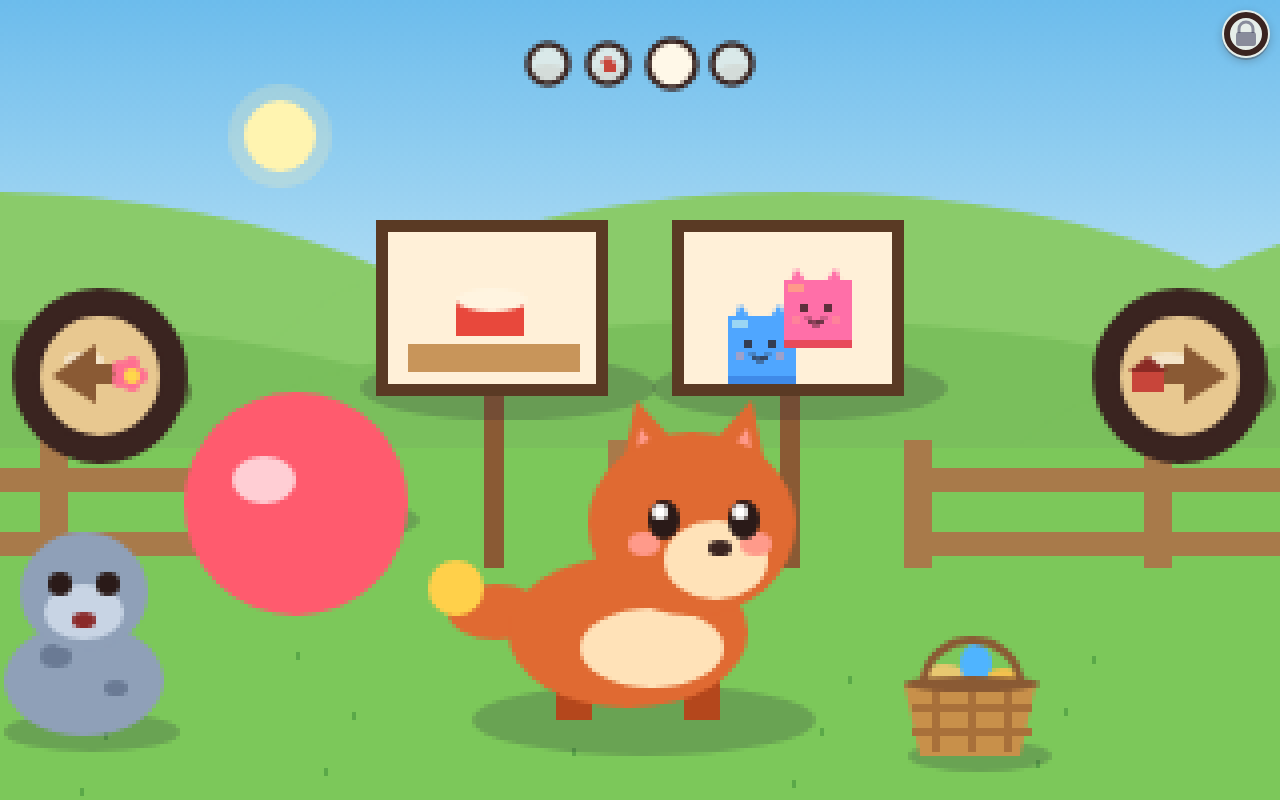
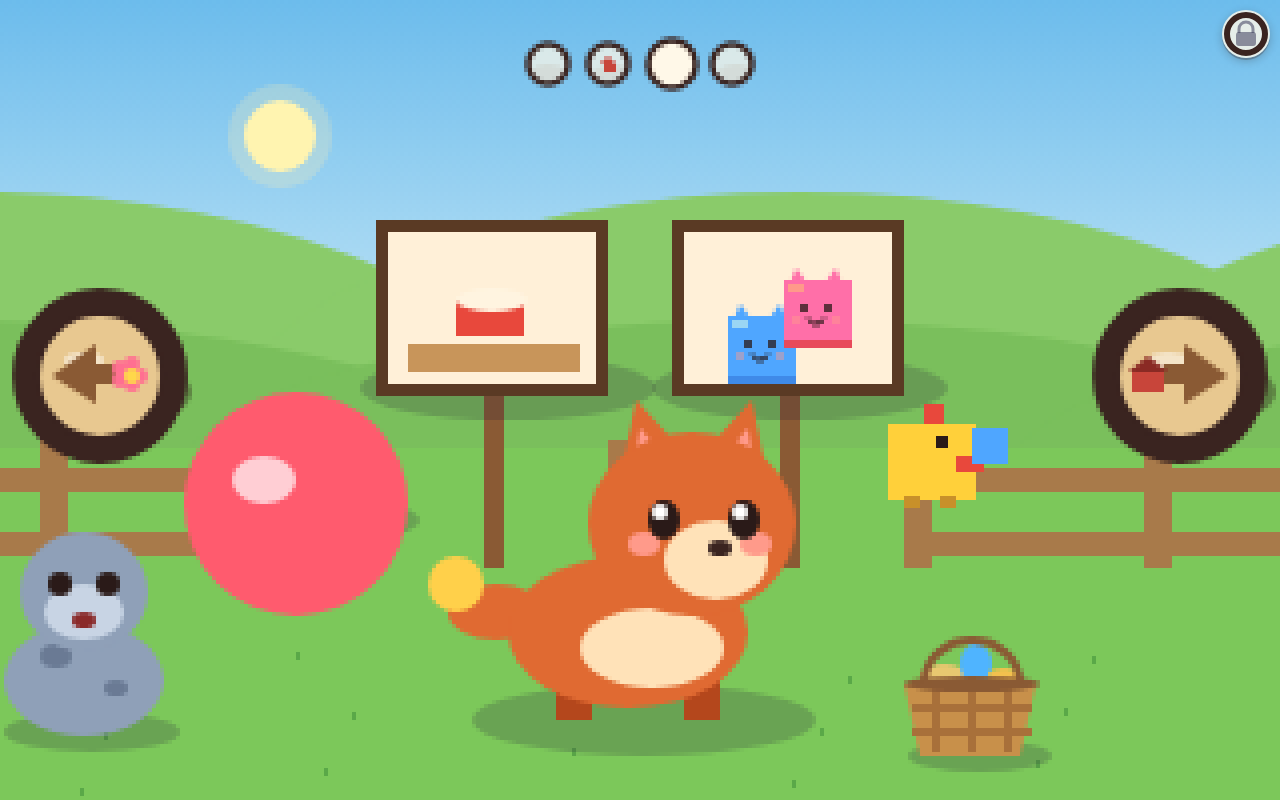
LR-WORLD-4: Give each place an animal that answers a tap.
A bird, a bunny, a chick and a woolly each keep a small prop. A daytime tap hops them. A bedtime tap only stirs them. Arriving plays one hello, and reduced motion skips the bounce. The palette stays at 188 colours.

Changed region(s): [[0.6875, 0.5, 0.8125, 0.6562], [0.3438, 0.75, 0.375, 0.7812], [0.3438, 0.6875, 0.375, 0.7188]]

diff --git a/games/little-ranch/feel.js b/games/little-ranch/feel.js
@@ -1,0 +1,203 @@
+/* Each place keeps one animal and the little thing it plays with. A tap hops them by day and stirs them at bedtime. Arriving is answered with one hello. */
+(function () {
+  if (!window.LR) return;
+  const LIFE = [
+    { area: 0, animal: 'bird', prop: 'berry', day: '#e8483c', night: '#8a2a24', belly: '#fff0d8', propDay: '#c8453a', propNight: '#8a2a24' },
+    { area: 1, animal: 'bunny', prop: 'clover', day: '#f4f0d8', night: '#8a8aa0', belly: '#fff8ec', propDay: '#5cba5a', propNight: '#1e3a36' },
+    { area: 2, animal: 'chick', prop: 'block', day: '#ffd03a', night: '#c8902a', belly: '#fff3a0', propDay: '#4fa6ff', propNight: '#2a3a68' },
+    { area: 3, animal: 'woolly', prop: 'pail', day: '#fff8ec', night: '#b8ab98', belly: '#f4ead8', propDay: '#8a5a34', propNight: '#5a3a24' }
+  ];
+  LIFE.forEach(row => { row.pose = 'rest'; row.at = 0; row.greeted = false; row.spot = null; });
+  const cv = document.querySelector('#ranch');
+  const reduce = () => matchMedia('(prefers-reduced-motion: reduce)').matches;
+  const night = () => LR.state.mode !== 'play' || LR.state.dusk > .55;
+  let seen = -1, pending = false, lastT = 0, held = null;
+
+  function reset() {
+    LIFE.forEach(row => { row.pose = 'rest'; row.at = 0; row.greeted = false; });
+    seen = -1; pending = false;
+  }
+  function watch() {
+    const t = LR.state.t;
+    if (t + .001 < lastT) reset();
+    lastT = t;
+    const area = LR.camera.area;
+    const moving = Math.abs(LR.camera.x - LR.camera.target) > .5;
+    if (seen !== area) { seen = area; pending = true; }
+    if (!pending || moving || LR.state.place !== 'ranch') return;
+    pending = false;
+    const row = LIFE[area];
+    row.greeted = true;
+    if (!reduce() && !night()) { row.pose = 'hello'; row.at = t; }
+  }
+  function lift(row) {
+    if (reduce()) return 0;
+    const t = LR.state.t - row.at, U = LR.layout.U;
+    if (row.pose === 'rest') return night() ? 0 : Math.sin(LR.state.t * 3) * 1.5;
+    const dur = row.pose === 'stir' ? .35 : row.pose === 'hello' ? .6 : .5;
+    if (t >= dur) { row.pose = 'rest'; return lift(row); }
+    const k = t / dur;
+    if (row.pose === 'stir') return Math.sin(k * Math.PI * 3) * U * .015;
+    return Math.sin(k * Math.PI) * U * .1;
+  }
+  function clear(x, y, r) {
+    const pts = [[0, 0], [r * .8, 0], [-r * .8, 0], [0, r * .6], [0, -r * .6]];
+    return pts.every(([dx, dy]) => !LR.ranchTarget({ x: x + dx, y: y + dy }));
+  }
+  function blocked(x, y, r, stop) {
+    const L = LR.layout, U = L.U, W = cv.width, sx = x - stop;
+    if (sx - r < U * .2 || sx + r > W - U * .2) return true;
+    if (y - r < 10 || y + r > cv.height - 4) return true;
+    const lock = 56 / (LR.scale || 2);
+    if (sx + r > W - lock && y - r < lock) return true;
+    if (Math.hypot(sx - W * .12, y - (L.ground + U * .45)) < r + 8) return true;
+    const ySwipe = L.ground - U * .36;
+    const samples = [.4, .5, .62, .74, .84];
+    for (let i = 0; i < samples.length; i++) if (Math.hypot(sx - W * samples[i], y - ySwipe) < r + 4) return true;
+    if (Math.hypot(sx - W * .22, y - cv.height * .17) < Math.max(U * .16, L.R) + r) return true;
+    const z = L.size, by = L.home.y + z * .06, marks = [LR.state.baby.x + z * .9, LR.state.baby.x - z * 1.4];
+    if (LR.state.friend) marks.push(LR.state.friend.x + z * .9, LR.state.friend.x - z * 1.4);
+    for (let i = 0; i < marks.length; i++) if (Math.hypot(x - marks[i], y - by) < r + z * .5) return true;
+    return !clear(x, y, r);
+  }
+  function place(area) {
+    const L = LR.layout, U = L.U, stop = LR.world.areas[area].stop;
+    const want = U * .175, minR = 22 / (LR.scale || 2);
+    const bands = [[L.ground + U * .12, cv.height - 4], [L.ground - U * .02, L.ground + U * .1]];
+    for (let r = want; r >= minR - .1; r -= Math.max(2, U * .015)) {
+      const step = Math.max(8, r * .55);
+      for (let b = 0; b < bands.length; b++) {
+        for (let y = bands[b][0]; y < bands[b][1] && y < cv.height - r; y += step) {
+          for (let sx = U * .2 + r; sx <= cv.width - U * .2 - r; sx += step) {
+            const x = stop + sx;
+            if (!blocked(x, y, r, stop)) return { x, y, r };
+          }
+        }
+      }
+    }
+    return null;
+  }
+  function worldPoint(e) {
+    const src = (e.changedTouches && e.changedTouches[0]) || e;
+    const box = cv.getBoundingClientRect();
+    if (!box.width || !box.height) return null;
+    return {
+      x: LR.camera.x + (src.clientX - box.left) / box.width * cv.width,
+      y: (src.clientY - box.top) / box.height * cv.height
+    };
+  }
+  function idOf(e) { const t = e.changedTouches && e.changedTouches[0]; return t ? t.identifier : e.pointerId; }
+  function hit(p) {
+    if (!p || LR.state.place !== 'ranch' || LR.ranchTarget(p)) return null;
+    for (let i = 0; i < LIFE.length; i++) {
+      const row = LIFE[i];
+      if (row.area !== LR.camera.area || !row.spot) continue;
+      if (Math.hypot(p.x - row.spot.x, p.y - row.spot.y) <= row.spot.r) return row;
+    }
+    return null;
+  }
+  function react(row) {
+    row.pose = night() ? 'stir' : 'hop';
+    row.at = LR.state.t;
+    if (!night()) LR.act.sparkle({ x: row.spot.x, y: row.spot.y });
+  }
+  function down(e) {
+    const id = idOf(e);
+    if (held && held.id === id) { if (!held.pass) { e.preventDefault(); e.stopPropagation(); } return; }
+    const row = hit(worldPoint(e));
+    if (!row) return;
+    // Bedtime taps still brush, drink and say goodnight. The animal only stirs along with them.
+    if (night()) { held = { id, row, pass: true }; return; }
+    held = { id, row, pass: false };
+    e.preventDefault();
+    e.stopPropagation();
+  }
+  function up(e) {
+    if (!held || held.id !== idOf(e)) return;
+    const row = held.row, pass = held.pass;
+    held = null;
+    if (!pass) { e.preventDefault(); e.stopPropagation(); }
+    if (e.type !== 'pointercancel' && e.type !== 'touchcancel') react(row);
+  }
+  cv.addEventListener('pointerdown', down, true);
+  cv.addEventListener('pointerup', up, true);
+  cv.addEventListener('pointercancel', up, true);
+  cv.addEventListener('touchstart', down, true);
+  cv.addEventListener('touchend', up, true);
+  cv.addEventListener('touchcancel', up, true);
+
+  function rect(x, y, w, h, colour) {
+    cx.fillStyle = colour;
+    cx.fillRect(Math.round(x), Math.round(y), Math.max(1, Math.round(w)), Math.max(1, Math.round(h)));
+  }
+  function animal(row, x, y, s) {
+    const dark = night(), body = dark ? row.night : row.day, belly = row.belly, eye = '#2a1a18';
+    if (row.animal === 'bird') {
+      rect(x - s * .4, y - s * .2, s * .8, s * .55, body);
+      rect(x - s * .05, y - s * .5, s * .4, s * .38, body);
+      rect(x + s * .28, y - s * .38, s * .22, s * .14, '#ffd03a');
+      rect(x - s * .15, y, s * .35, s * .2, belly);
+    } else if (row.animal === 'bunny') {
+      rect(x - s * .22, y - s * .72, s * .16, s * .4, body);
+      rect(x + s * .08, y - s * .72, s * .16, s * .4, body);
+      rect(x - s * .36, y - s * .28, s * .72, s * .58, body);
+      rect(x - s * .18, y - s * .02, s * .36, s * .22, belly);
+    } else if (row.animal === 'chick') {
+      rect(x - s * .36, y - s * .32, s * .72, s * .62, body);
+      rect(x + s * .2, y - s * .08, s * .22, s * .14, '#e8483c');
+      rect(x - s * .06, y - s * .48, s * .18, s * .16, '#e8483c');
+      rect(x - s * .2, y + s * .26, s * .12, s * .1, '#c8902a');
+      rect(x + s * .08, y + s * .26, s * .12, s * .1, '#c8902a');
+    } else {
+      rect(x - s * .4, y - s * .32, s * .8, s * .58, body);
+      rect(x - s * .22, y - s * .08, s * .28, s * .2, belly);
+      rect(x - s * .28, y + s * .22, s * .12, s * .14, '#5a3a24');
+      rect(x + s * .14, y + s * .22, s * .12, s * .14, '#5a3a24');
+    }
+    if (dark) rect(x + s * .02, y - s * .22, s * .16, s * .05, eye);
+    else rect(x + s * .04, y - s * .24, s * .1, s * .1, eye);
+  }
+  function prop(row, x, y, s, hop) {
+    const colour = night() ? row.propNight : row.propDay;
+    const px = x + s * .34, py = y + s * .02 - hop * 1.6;
+    if (row.prop === 'berry' || row.prop === 'block') rect(px, py, s * .28, s * .28, colour);
+    else if (row.prop === 'clover') {
+      rect(px, py, s * .14, s * .14, colour);
+      rect(px + s * .12, py + s * .02, s * .14, s * .14, colour);
+      rect(px + s * .04, py + s * .14, s * .14, s * .14, colour);
+    } else {
+      rect(px, py, s * .26, s * .2, colour);
+      rect(px + s * .06, py - s * .1, s * .14, s * .1, colour);
+    }
+  }
+  let cx;
+  function paint() {
+    if (!LR.layout || !LR.state || LR.state.place !== 'ranch') return;
+    watch();
+    LIFE.forEach(row => { row.spot = row.area === LR.camera.area ? place(row.area) : row.spot; });
+    cx = cv.getContext('2d');
+    cx.save();
+    cx.setTransform(1, 0, 0, 1, 0, 0);
+    const row = LIFE[LR.camera.area], spot = row && row.spot;
+    if (spot) {
+      const s = Math.min(LR.layout.U * .2, spot.r * 1.15), hop = lift(row);
+      const x = spot.x - LR.camera.x, y = spot.y - hop;
+      animal(row, x, y, s);
+      prop(row, x, y, s, hop);
+    }
+    cx.restore();
+  }
+  const advance = LR.advance, redraw = LR.redraw;
+  LR.advance = function (secs) { const out = advance(secs); paint(); return out; };
+  LR.redraw = function () { redraw(); paint(); };
+  const frame = window.requestAnimationFrame.bind(window);
+  window.requestAnimationFrame = function (fn) {
+    return frame(function (t) { fn(t); paint(); });
+  };
+  window.LRFeel = {
+    rows: () => LIFE.map(row => ({ area: row.area, animal: row.animal, prop: row.prop, pose: row.pose, greeted: row.greeted, spot: row.spot, lift: lift(row) })),
+    spot: area => place(area),
+    paint
+  };
+  paint();
+})();

diff --git a/tests/little-ranch-feel.html b/tests/little-ranch-feel.html
@@ -1,0 +1,71 @@
+<!doctype html>
+<html lang="en"><head><meta charset="utf-8"><title>Little Ranch world feel checks</title>
+<style>body{font:16px system-ui;background:#1d3a2a;color:#f2eedb;padding:20px}.pass{color:#9ee7ba}.fail{color:#ffaaa6}button{min-height:44px}iframe{border:0;display:block}</style></head>
+<body><h1>Little Ranch world feel checks</h1>
+<p>One animal and one prop in each place. A tap hops them by day, stirs them at bedtime, and never moves the view by itself.</p>
+<button id="run">Run checks</button><p id="summary" role="status">Ready.</p><ol id="results"></ol><div id="game"></div>
+<script>
+'use strict';
+document.querySelector('#run').onclick = async () => {
+  const sum = document.querySelector('#summary'), list = document.querySelector('#results'), button = document.querySelector('#run');
+  button.disabled = true; list.replaceChildren(); sum.textContent = 'Running…'; let n = 0, frame;
+  const check = (name, ok) => { n++; const li = document.createElement('li'); li.className = ok ? 'pass' : 'fail'; li.textContent = (ok ? 'PASS — ' : 'FAIL — ') + name; list.appendChild(li); if (!ok) throw Error(name); };
+  const sleep = ms => new Promise(r => setTimeout(r, ms));
+  try {
+    frame = document.createElement('iframe'); frame.title = 'Little Ranch world feel'; frame.style.cssText = 'width:1280px;height:800px';
+    frame.src = '../games/little-ranch/index.html';
+    await new Promise((ok, no) => { const t = setTimeout(() => no(Error('load timed out')), 20000); frame.onload = () => { clearTimeout(t); ok(); }; document.querySelector('#game').appendChild(frame); });
+    const w = frame.contentWindow, d = frame.contentDocument;
+    for (let i = 0; i < 50 && !(w.LR && w.LRFeel); i++) await sleep(100);
+    const LR = w.LR, cv = d.querySelector('#ranch'); let pid = 40;
+    const ev = (type, p) => cv.dispatchEvent(new w.PointerEvent(type, { pointerId: pid, clientX: p.x, clientY: p.y, bubbles: true, cancelable: true, isPrimary: true }));
+    const tap = q => { const p = LR.toScreen(q); pid++; ev('pointerdown', p); ev('pointerup', p); };
+    const drag = (a, b, steps) => { pid++; ev('pointerdown', LR.toScreen(a)); for (let i = 1; i <= steps; i++) ev('pointermove', LR.toScreen({ x: a.x + (b.x - a.x) * i / steps, y: a.y + (b.y - a.y) * i / steps })); ev('pointerup', LR.toScreen(b)); };
+    check('The world feel is part of the ranch', !!(LR && w.LRFeel));
+    LR.setFriend(false); LR.setRoutine(false); LR.newVisit(); LR.advance(.2);
+    const names = ['Kitchen Garden', 'Meadow', 'Toy Yard', 'Barn Yard'];
+    for (const [width, height] of [[1280, 800], [844, 390], [820, 1180], [390, 844], [375, 812]]) {
+      frame.style.width = width + 'px'; frame.style.height = height + 'px'; await sleep(160);
+      for (let area = 0; area < 4; area++) {
+        LR.go(area); LR.advance(.85);
+        const spot = w.LRFeel.spot(area);
+        const css = spot ? spot.r * 2 * LR.scale : 0;
+        check(`${width}×${height} ${names[area]}: the animal is there and the tap is at least 44 px`, !!spot && css >= 44 && LR.camera.area === area);
+      }
+    }
+    frame.style.width = '1280px'; frame.style.height = '800px'; await sleep(160);
+    LR.newVisit(); LR.advance(.2);
+    const home = w.LRFeel.rows()[1];
+    check('Arriving in the Meadow is answered', home.greeted && home.animal === 'bunny' && home.prop === 'clover');
+    const spot = w.LRFeel.spot(1), fx = LR.state.fx.length, area = LR.camera.area;
+    tap(spot); LR.advance(.15);
+    const hopped = w.LRFeel.rows()[1];
+    check('A daytime tap hops the bunny and the clover, and the view stays', hopped.pose === 'hop' && hopped.lift > 1 && LR.state.fx.length > fx && LR.camera.area === area);
+    const held = LR.camera.area;
+    drag(spot, { x: spot.x + LR.layout.U * .5, y: spot.y }, 8);
+    check('A long drag that starts on the animal never moves the view', LR.camera.area === held);
+    LR.go(2); LR.advance(.9);
+    const yard = w.LRFeel.rows()[2];
+    check('Arriving in the Toy Yard is its own hello', yard.greeted && yard.animal === 'chick' && yard.prop === 'block' && LR.camera.area === 2);
+    LR.go(0); LR.advance(.9);
+    check('The Garden bird keeps a berry', w.LRFeel.rows()[0].animal === 'bird' && w.LRFeel.rows()[0].prop === 'berry' && w.LRFeel.rows()[0].greeted);
+    LR.go(3); LR.advance(.9);
+    check('The Barn Yard woolly keeps a pail', w.LRFeel.rows()[3].animal === 'woolly' && w.LRFeel.rows()[3].prop === 'pail' && w.LRFeel.rows()[3].greeted);
+    LR.newVisit(); LR.advance(.2); LR.bedtime(); LR.advance(.2);
+    tap(w.LRFeel.spot(1));
+    const stirred = w.LRFeel.rows()[1];
+    check('At bedtime a tap only stirs the animal, and home stays home', stirred.pose === 'stir' && LR.camera.area === 1 && LR.state.place === 'ranch' && LR.state.mode !== 'play');
+    const mm = w.matchMedia;
+    w.matchMedia = q => ({ matches: /reduce/.test(String(q)), addEventListener() {}, addListener() {} });
+    LR.newVisit(); LR.go(3); LR.advance(.2);
+    const still = w.LRFeel.rows()[3];
+    check('Reduced motion still marks the arrival and does not bounce', still.greeted && still.lift === 0 && Math.abs(LR.camera.x - LR.world.areas[3].stop) < 1);
+    w.matchMedia = mm;
+    const visible = el => { const s = w.getComputedStyle(el); return !el.closest('[hidden]') && s.display !== 'none' && s.visibility !== 'hidden'; };
+    const text = [...d.body.querySelectorAll('*')].filter(el => visible(el) && !['SCRIPT', 'STYLE'].includes(el.tagName)).map(el => [...el.childNodes].filter(c => c.nodeType === 3).map(c => c.textContent.trim()).join('')).join('');
+    check('The animals add no words', text === '');
+    sum.className = 'pass'; sum.textContent = 'PASS — ' + n + ' world feel checks.';
+  } catch (e) { sum.className = 'fail'; sum.textContent = 'FAIL — ' + e.message; }
+  finally { if (frame) frame.remove(); button.disabled = false; }
+};
+</script></body></html>

diff --git a/games/little-ranch/index.html b/games/little-ranch/index.html
@@ -53,4 +53,5 @@ canvas{position:fixed;inset:0;width:100%;height:100%;display:block;image-renderi
   </div>
 </div></div>
 <script src="game.js"></script>
+<script src="feel.js"></script>
 </body></html>
